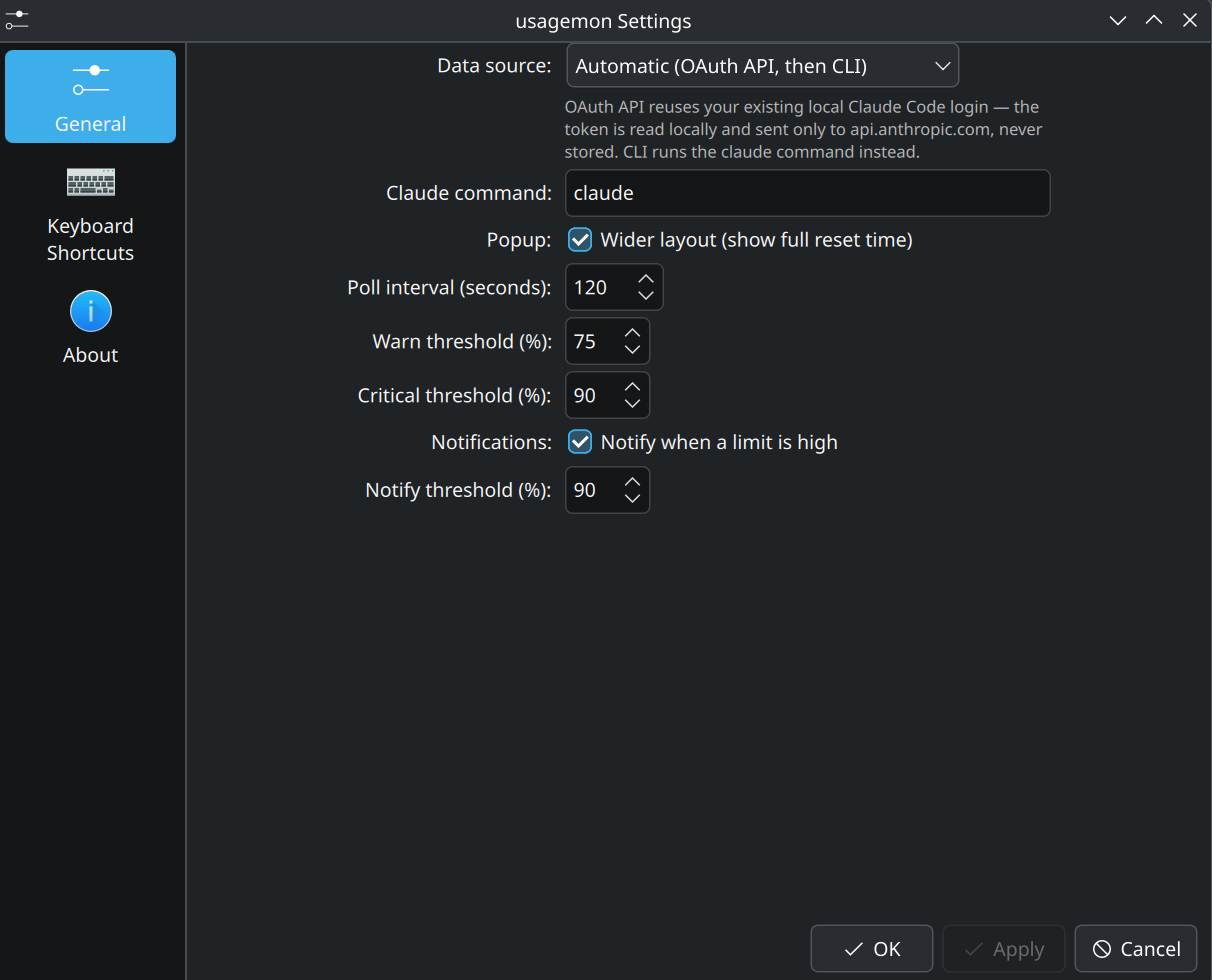
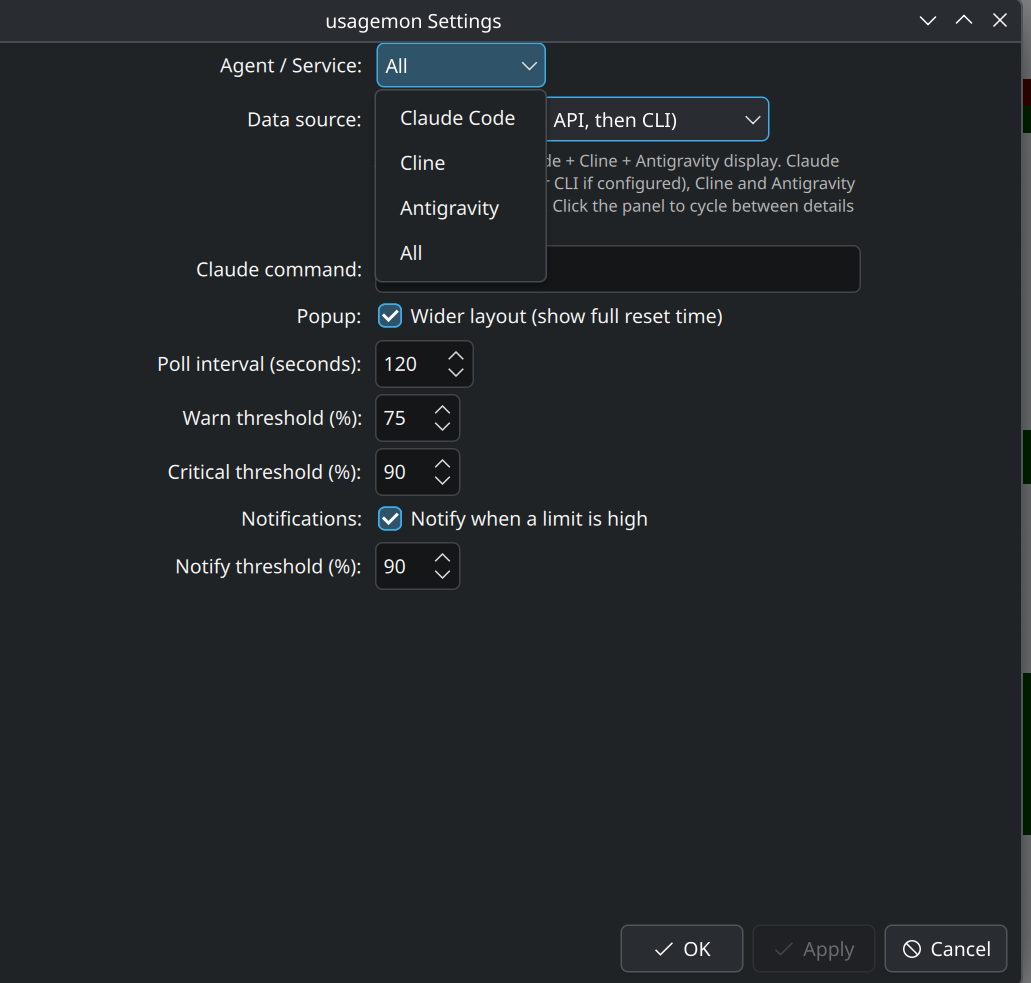
docs: refresh screenshots for 1.0.0, drop em dashes from README
Updated settings dialog and panel readout screenshots to match the
current All-mode UI; usagemon_status.png was superseded by the newer
full_wide/cline/antigravity screenshots so it's removed along with its
reference.

diff --git a/README.md b/README.md
@@ -4,7 +4,7 @@
 
 A KDE Plasma 6 panel widget that shows your [Claude Code](https://claude.com/claude-code),
 [Cline](https://cline.bot), or [Antigravity](https://antigravity.google/) (`agy`) subscription
-usage — session and weekly rate limits — at a glance, so you don't have to type
+usage (session and weekly rate limits) at a glance, so you don't have to type
 `/usage` in a terminal every time.
 
 It reads your usage in the background and shows a compact, color-coded readout
@@ -19,9 +19,7 @@ all three at once.
 </p>
 
 <p align="center">
-  <img src="images/usagemon_status.png" alt="Usage popup" width="330">
-  &nbsp;&nbsp;
-  <img src="images/full_wide.png" alt="Usage popup (wider layout, with countdown + absolute reset time)" width="380">
+  <img src="images/full_wide.png" alt="Claude Code usage popup (wider layout, with countdown + absolute reset time)" width="380">
 </p>
 
 <p align="center">
@@ -40,7 +38,7 @@ all three at once.
 ## Features
 
 - **Panel readout**: session and week usage side by side (e.g. `29% · 36%`),
-  each preceded by its own Breeze icon — a stopwatch for the session limit and
+  each preceded by its own Breeze icon: a stopwatch for the session limit and
   a week-calendar for the weekly limit.
 - **Severity colors**: the percentages and icons turn from green → yellow → red.
   When the OAuth API is used, this follows the API's own `severity` for each
@@ -52,8 +50,8 @@ all three at once.
 - **Notifications**: optional desktop notification when a limit crosses a
   configurable threshold (default 90%).
 - **Active model**: reads your configured model from `~/.claude/settings.json`
-  (or the active quota group for Antigravity) and shows it — with its brand
-  icon — in the popup header and tooltip.
+  (or the active quota group for Antigravity) and shows it, with its brand
+  icon, in the popup header and tooltip.
 - **All mode**: watch Claude Code, Cline, and Antigravity side by side. The
   panel shows one indicator per service; click it to cycle through their
   details in the popup.
@@ -65,17 +63,17 @@ all three at once.
 - KDE Plasma 6
 - [Claude Code](https://claude.com/claude-code), [Cline](https://cline.bot), and/or
   [Antigravity](https://antigravity.google/)'s `agy` CLI installed and logged in.
-  usagemon reuses that existing login — you don't authenticate separately.
+  usagemon reuses that existing login; you don't authenticate separately.
   Choose which one(s) to monitor in the widget settings. Antigravity also needs
   `lsof` on `PATH`.
 
 ## Install
 
-**Option A — from the KDE Store (easiest):** right-click your panel →
+**Option A (from the KDE Store, easiest):** right-click your panel →
 **Add Widgets…** → **Get New Widgets…** → search for **usagemon** (or install
 it directly from [store.kde.org](https://store.kde.org/p/2365234/)).
 
-**Option B — from source:**
+**Option B (from source):**
 
 ```sh
 git clone https://github.com/Script-hpp/usagemon.git
@@ -99,9 +97,9 @@ Right-click the widget → **Configure usagemon…** → **General**:
 | Option | Default | Description |
 | --- | --- | --- |
 | Agent / Service | `Claude Code` | Which agent's usage to monitor: `Claude Code`, `Cline`, `Antigravity`, or `All` (all three side by side) |
-| Data source | Automatic | `Automatic` (OAuth API, then CLI), `OAuth API only`, or `CLI only` *(Claude Code only — Cline and Antigravity are API-only)* |
+| Data source | Automatic | `Automatic` (OAuth API, then CLI), `OAuth API only`, or `CLI only` *(Claude Code only; Cline and Antigravity are API-only)* |
 | Claude command | `claude` | Path/name of the `claude` binary (used by the CLI source) |
-| Poll interval (seconds) | `120` | How often to refresh (min 60 — the source is rate-limited) |
+| Poll interval (seconds) | `120` | How often to refresh (min 60; the source is rate-limited) |
 | Warn threshold (%) | `75` | Usage at which the readout turns yellow (when no API severity) |
 | Critical threshold (%) | `90` | Usage at which the readout turns red (when no API severity) |
 | Notifications | on | Notify when a limit is high |
@@ -117,7 +115,7 @@ two-tier, **privacy-first** approach:
 1. **OAuth API (primary).** A small bundled script
    ([`fetch-usage.sh`](package/contents/ui/fetch-usage.sh)) reads the OAuth
    access token from Claude Code's own credentials file and calls
-   `GET https://api.anthropic.com/api/oauth/usage` — the exact endpoint the
+   `GET https://api.anthropic.com/api/oauth/usage`, the exact endpoint the
    `claude` CLI uses internally. The JSON response is parsed in
    [`UsageApi.js`](package/contents/ui/UsageApi.js).
 2. **CLI (fallback).** If the API is unavailable (no token, offline, rate
@@ -135,7 +133,7 @@ again reuses the existing local Cline login:
 1. **Cline usage API (API-only).** A bundled script
    ([`fetch-cline-usage.sh`](package/contents/ui/fetch-cline-usage.sh)) reads the
    access token from `~/.cline/data/settings/providers.json` (the file Cline's CLI
-   itself writes — `providers.<name>.settings.auth.accessToken`) and calls
+   itself writes: `providers.<name>.settings.auth.accessToken`) and calls
    `GET https://api.cline.bot/api/v1/users/me/plan/usage-limits`. The JSON
    response (`data.limits[]` with `type` = `five_hour`/`weekly`/`monthly`,
    `percentUsed`, `resetsAt`) is parsed in
@@ -150,7 +148,7 @@ again reuses the existing local Cline login:
 **Privacy (safe auth token):** the access token is read locally and **only ever
 sent to `api.cline.bot`**. It is never placed in a shell variable, never passed
 on curl's command line (so it is not visible via `ps`), never printed, logged, or
-copied elsewhere — it is written to a `chmod 600` temp file that is removed right
+copied elsewhere; it is written to a `chmod 600` temp file that is removed right
 after the request, and the token never enters the widget code. No third-party
 servers are involved.
 
@@ -170,30 +168,30 @@ the `agy` CLI's own embedded local server instead of any Google account API:
    [`AntigravityApi.js`](package/contents/ui/AntigravityApi.js) into the same
    shape the rest of the widget uses.
 2. **No CLI fallback / no OAuth.** usagemon never touches Google account
-   credentials — if `agy` can't be found or its local server doesn't answer,
+   credentials; if `agy` can't be found or its local server doesn't answer,
    the widget shows the last known values and retries.
 
 Antigravity pools quota per *group* (Gemini models vs. Claude + GPT models)
 rather than per model, each with its own 5-hour and weekly window. The more-
 used bucket of each window becomes the session/week reading (with a matching
 Gemini/Antigravity icon next to "Model:"); the other group's numbers still
-show up as extra rows in the popup, so nothing is hidden — just deprioritized
+show up as extra rows in the popup, so nothing is hidden, just deprioritized
 in the compact view.
 
 ### Privacy (Claude Code)
 
-- usagemon **reuses your existing local Claude Code login** — no separate
+- usagemon **reuses your existing local Claude Code login**, no separate
   sign-in, no passwords.
 - The OAuth token is read locally and **only ever sent to `api.anthropic.com`**
   (the same host the CLI talks to). It is never stored, copied elsewhere, or
-  logged — the token stays inside the fetch subprocess and never enters the
+  logged; the token stays inside the fetch subprocess and never enters the
   widget code.
 - No third-party servers are involved.
 
 ### A note on refresh rate
 
 The usage endpoint is rate-limited (both the API and the CLI hit the same one),
-so polling faster than ~1/minute just yields errors — and the numbers (a 5-hour
+so polling faster than ~1/minute just yields errors, and the numbers (a 5-hour
 session window and a 7-day week window) change slowly anyway. The default is
 every 2 minutes; the minimum is 60 seconds.
 
@@ -217,4 +215,4 @@ To build a new release archive yourself (e.g. after making changes):
 
 ## License
 
-MIT — see [LICENSE](LICENSE).
+MIT, see [LICENSE](LICENSE).
